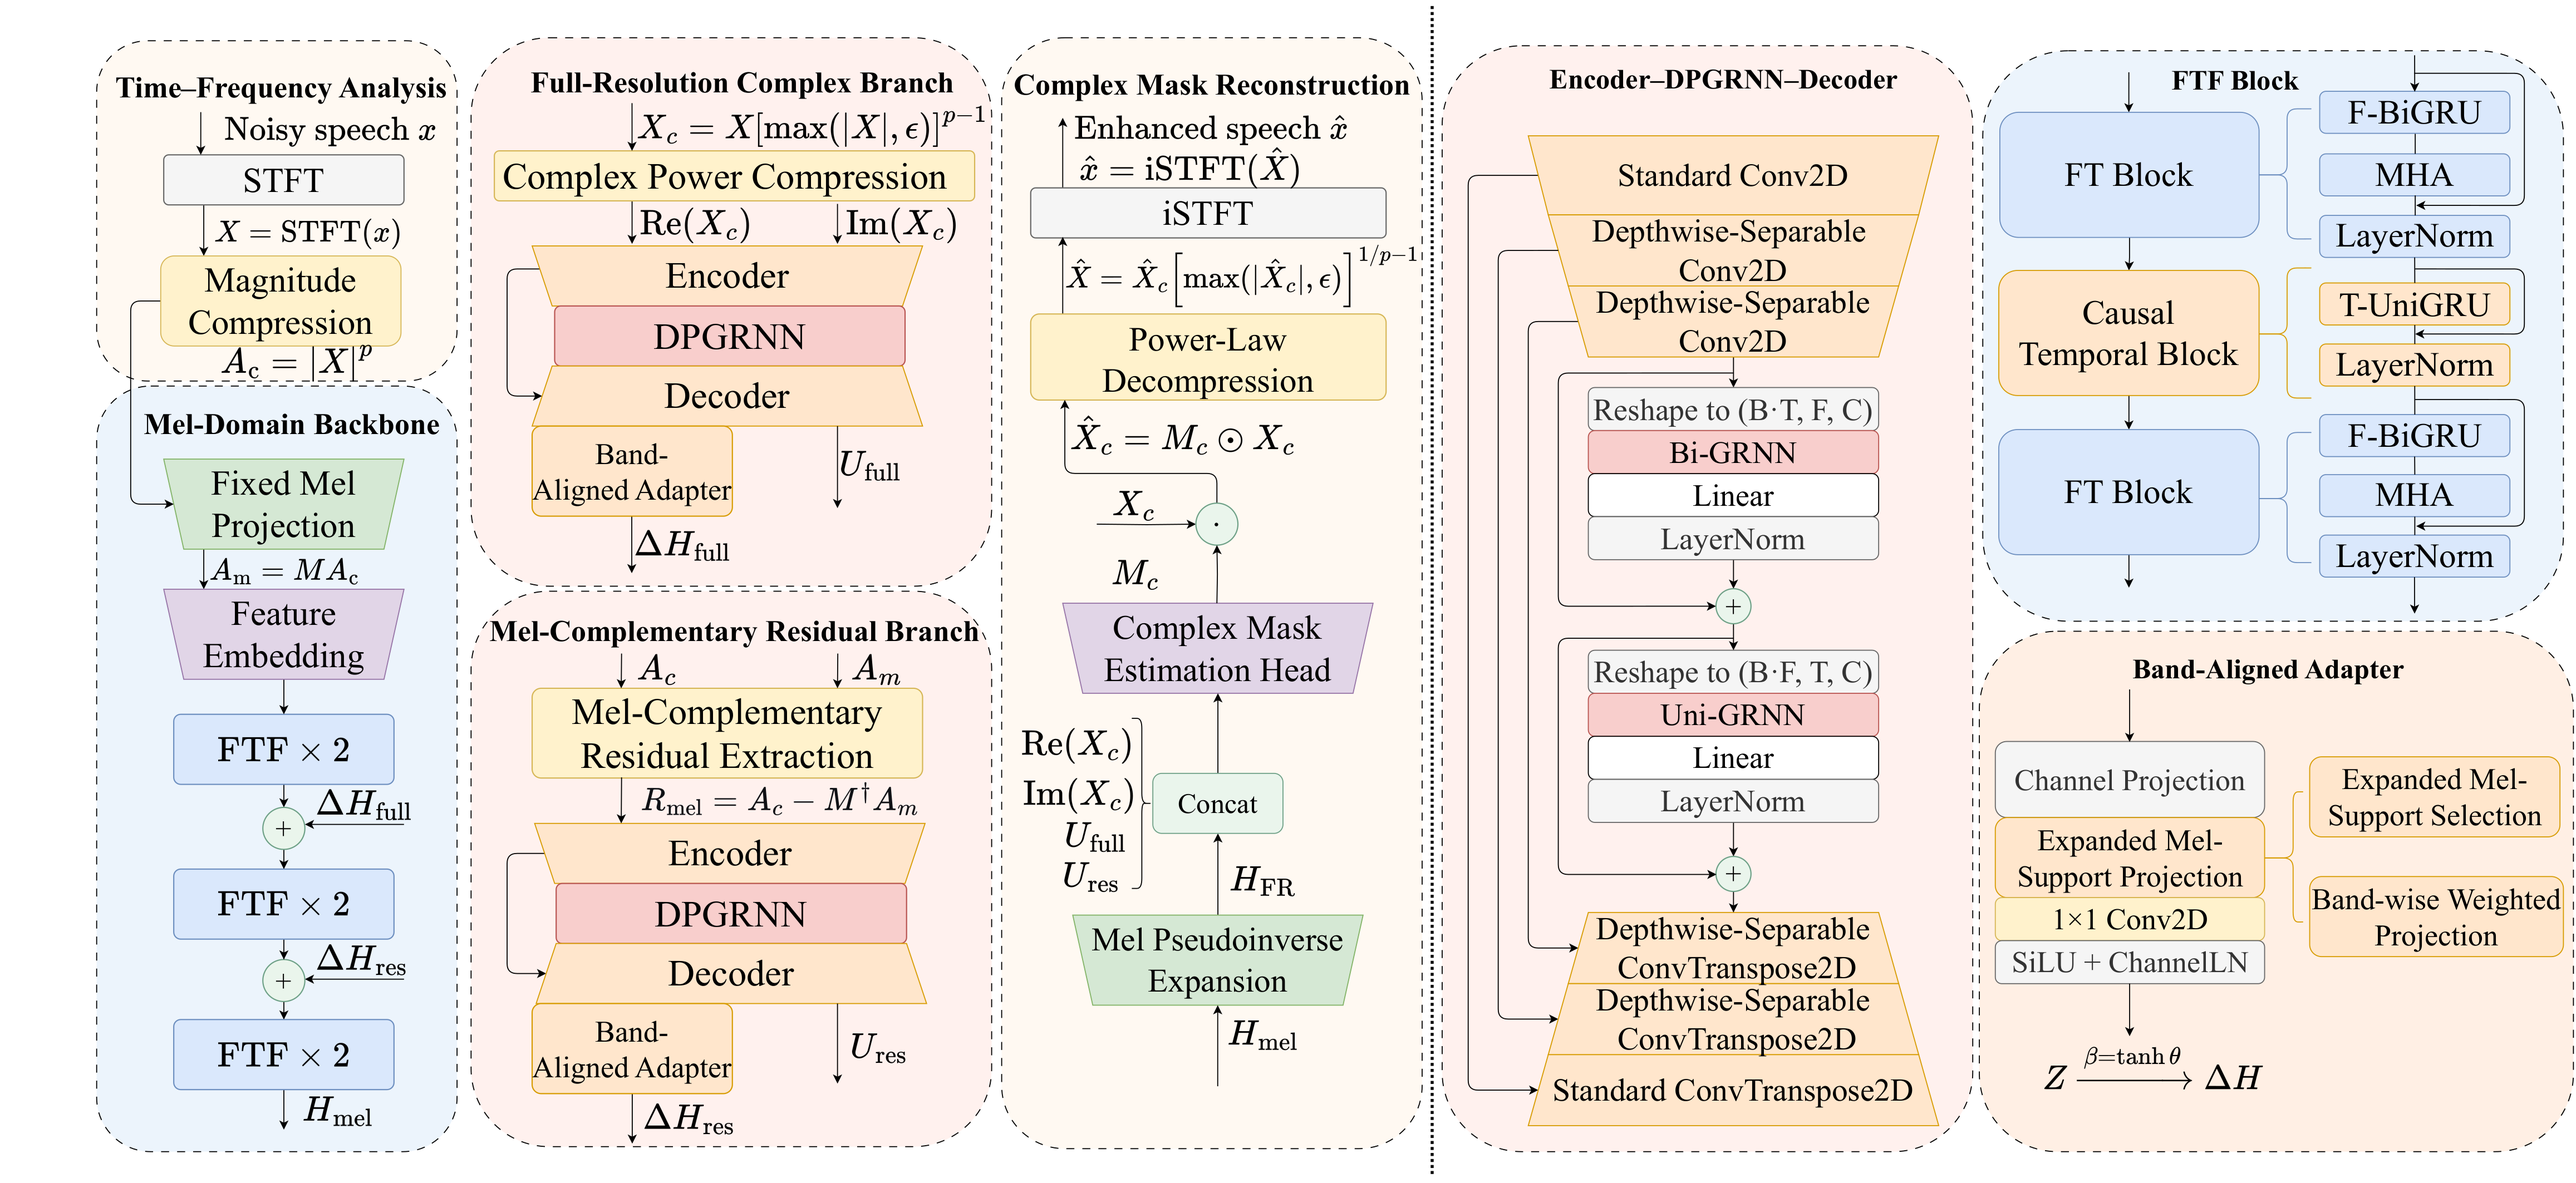
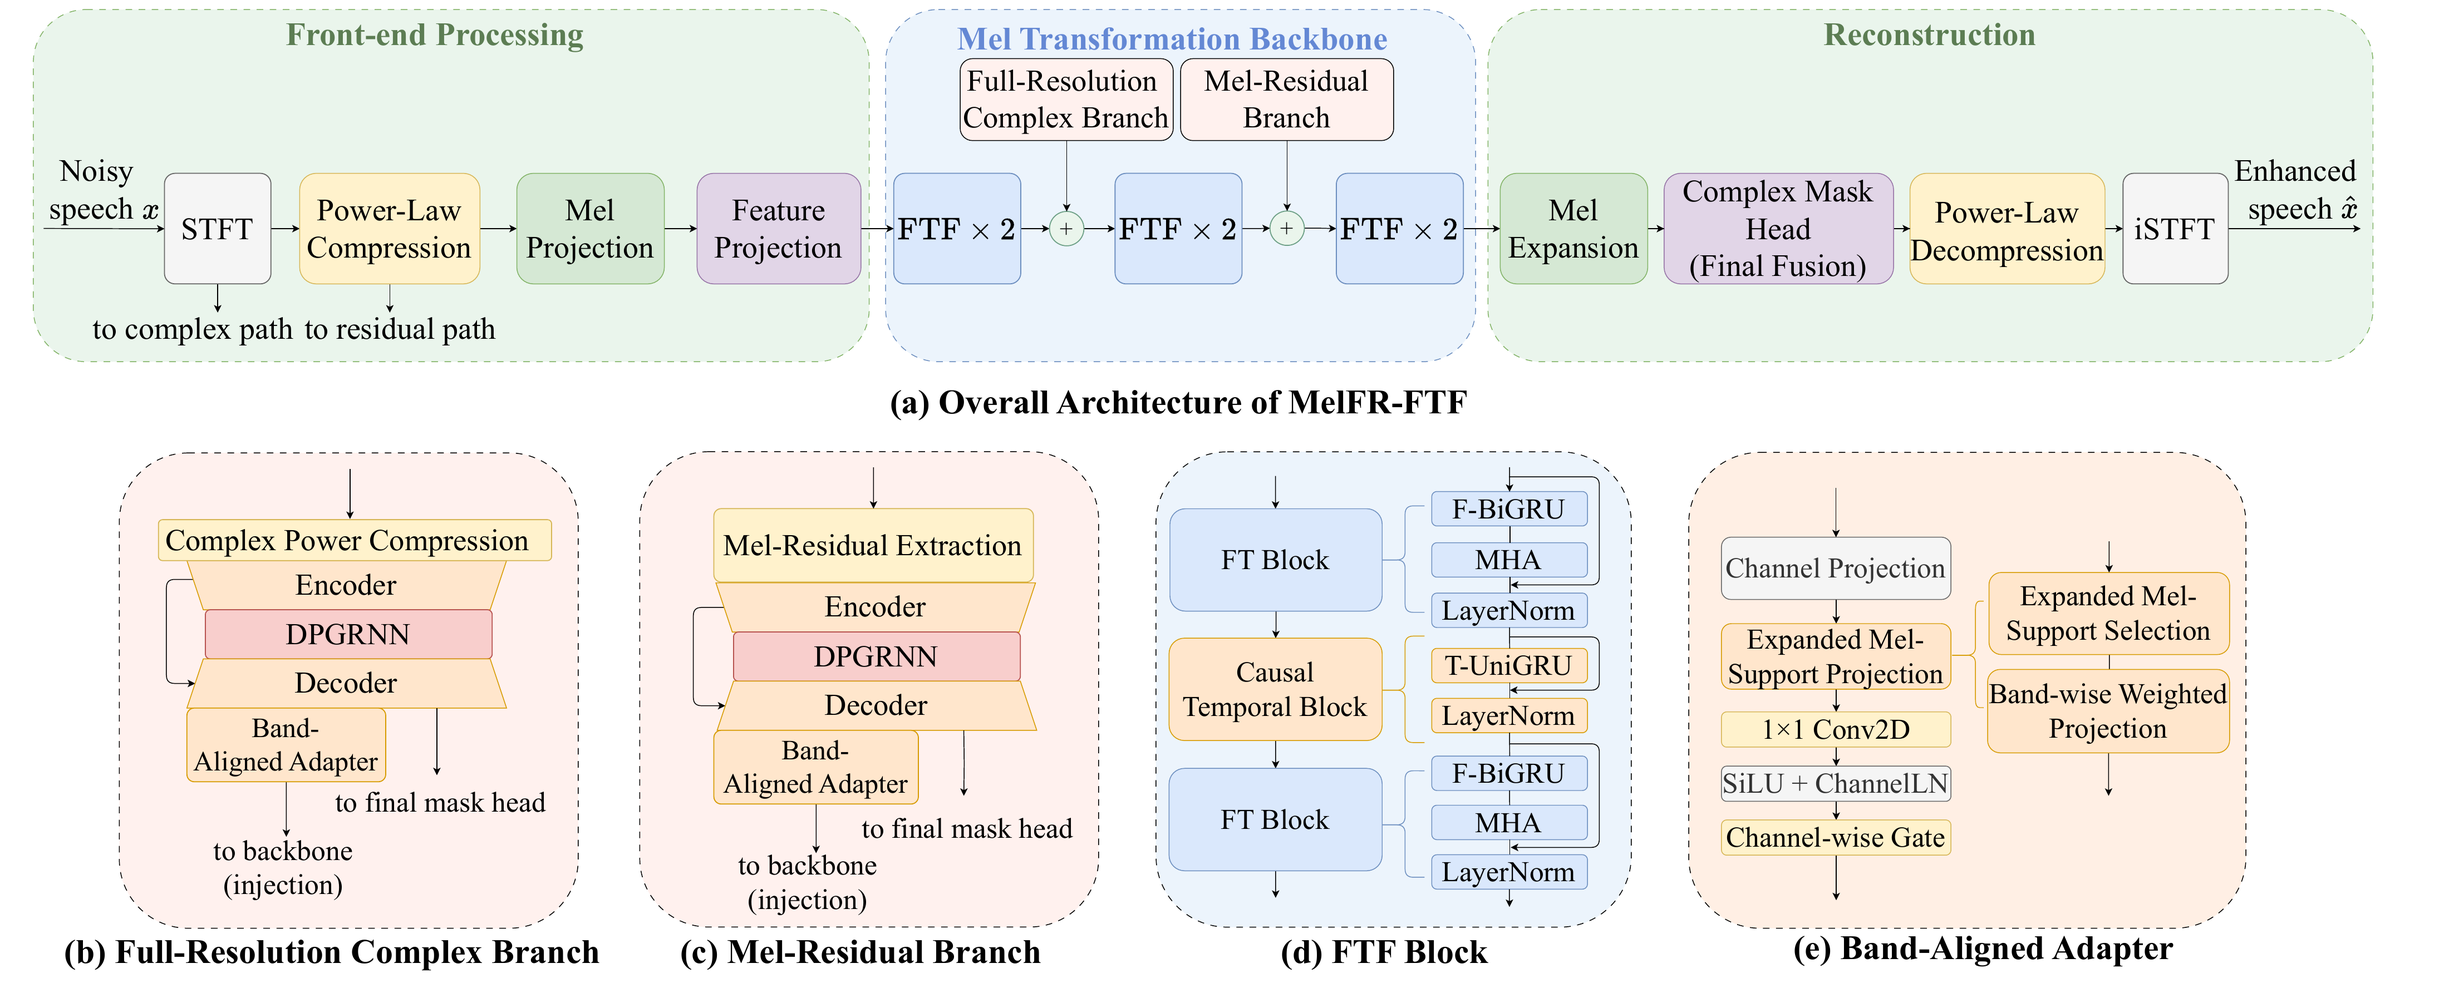
Refresh project page figure and results

diff --git a/README.md b/README.md
@@ -2,50 +2,24 @@
 
 **Complementary Mel and Full-Resolution Modeling for Lightweight Causal Speech Enhancement**
 
-> This repository is the project page for MelFR-FTF, a lightweight causal single-channel speech enhancement model associated with an ICASSP 2027 submission. The training/inference code and pretrained models will be released upon acceptance.
-
-## Overview
-
-MelFR-FTF is a lightweight causal single-channel speech enhancement model that allocates the computationally dominant contextual modeling to a compact 80-band Mel backbone while retaining lightweight full-resolution information.
-
-Its main components are:
-
-- an 80-band Mel-domain contextual backbone;
-- a full-resolution complex pathway using the power-compressed complex spectrum;
-- a Mel-complementary residual pathway based on the reconstruction residual $A_c - M^\dagger M A_c$;
-- band-aligned intermediate cross-resolution conditioning;
-- final full-resolution fusion for complex-mask estimation.
-
-The model uses causal neural processing with 16-ms STFT look-ahead. Mel/full-resolution processing is used as a complementary design, without claiming zero algorithmic latency or a first use of these individual ingredients.
+MelFR-FTF is a lightweight single-channel speech enhancement model. This repository currently provides the project overview and evaluation results.
 
 ## Architecture
-
-The architecture figure is provided below.
 
 ![MelFR-FTF architecture](assets/melfr_ftf_overview.png)
 
 ## Results
 
-Headline results from the frozen paper evaluation protocols are shown below. The VoiceBank+DEMAND and DNS entries use their respective benchmark protocols.
+| Evaluation | Results |
+| --- | --- |
+| VoiceBank+DEMAND, standard | PESQ 3.18 · CSIG 4.29 · CBAK 3.63 · COVL 3.76 · STOI 0.945 |
+| VoiceBank+DEMAND, FastEnhancer-aligned | P.808 3.48 · SI-SDR 18.9 dB · PESQ 3.18 · STOI 0.945 · eSTOI 0.860 |
+| DNS, FastEnhancer-aligned | P.808 3.91 · SIG 3.39 · BAK 4.11 · OVL 3.16 · SCOREQ 0.442 · SI-SDR 16.9 dB · PESQ 2.56 · STOI 0.952 · eSTOI 0.901 |
 
-| Benchmark | Metric | Result |
-| --- | --- | ---: |
-| VoiceBank+DEMAND | PESQ | 3.18 |
-| DNS | DNSMOS P.808 | 3.91 |
-| DNS | SI-SDR | 16.9 dB |
+The model has 69.26K parameters and 399M neural MAC/s, with causal neural processing and 16-ms STFT look-ahead.
 
-- Trainable parameters: 69.26K
-- Neural MACs/s: 399M
-- Causal neural processing with 16-ms STFT look-ahead
-
-## Release
-
-Training/inference code and pretrained models will be released upon acceptance.
+Source code and pretrained models will be released only if the paper is accepted.
 
 ## Citation
 
 Citation information will be added after publication.
-
-## License
-
-This project is released under the Apache License 2.0.
